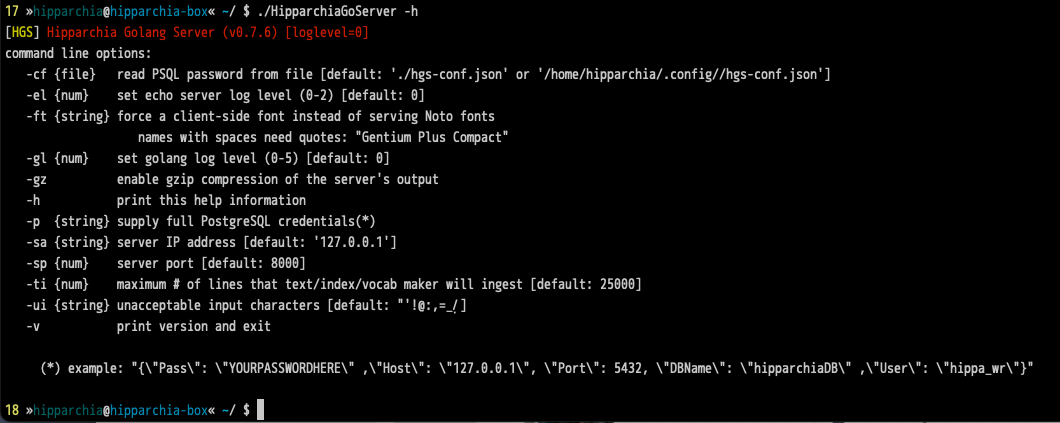
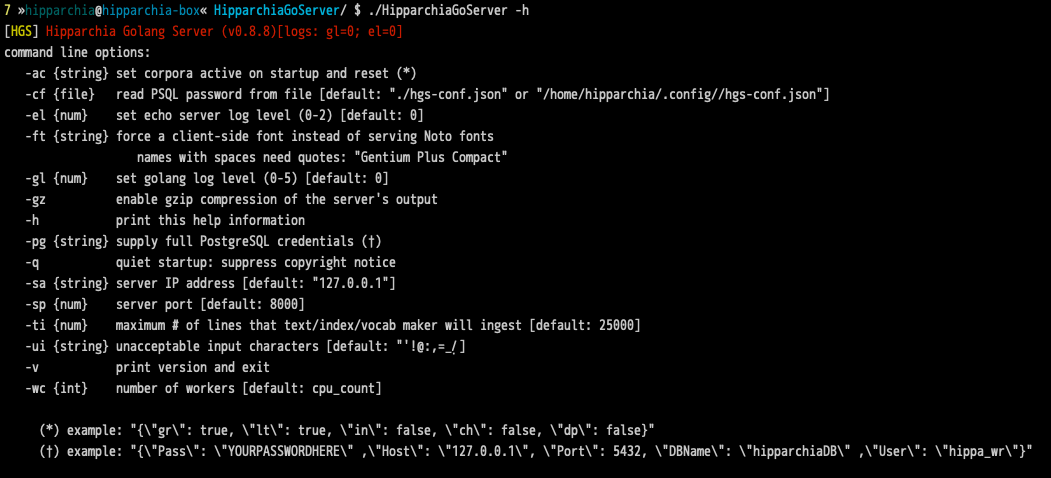
indexobserved clicks for index headwords

Changed region(s): [[0.0, 0.0, 1.0, 1.0]]

diff --git a/emb/frontpage.html b/emb/frontpage.html
@@ -14,7 +14,7 @@
 
 <!--
 
-HipparchiaGoServer: a container for and an interface to a database of Greek and Latin texts
+HipparchiaGoServer: an interface to a database of Greek and Latin texts
 Copyright: E Gunderson 2022
 License: GNU GENERAL PUBLIC LICENSE 3
     (see LICENSE in the top level directory of the distribution)

diff --git a/rt-textsindicesandvocab.go b/rt-textsindicesandvocab.go
@@ -829,7 +829,7 @@ func convertwordinfototablerow(ww []WordInfo) string {
 	// standard TR
 	tr := `
 	<tr>
-		<td class="headword">%s</td>
+		<td class="headword"><indexobserved id="%s">%s</indexobserved></td>
 		<td class="word"><indexobserved id="%s">%s</indexobserved></td>
 		<td class="count">%d</td>
 		<td class="passages">%s</td>
@@ -838,7 +838,7 @@ func convertwordinfototablerow(ww []WordInfo) string {
 	// homonymn TR
 	trh := `
 	<tr>
-		<td class="headword">%s</td>
+		<td class="headword"><indexobserved id="%s">%s</indexobserved></td>
 		<td class="word"><span class="homonym"><indexobserved id="%s">%s</indexobserved></span></td>
 		<td class="count">%d</td>
 		<td class="passages">%s</td>
@@ -877,7 +877,7 @@ func convertwordinfototablerow(ww []WordInfo) string {
 			templ = trh
 		}
 
-		t := fmt.Sprintf(templ, hw, wii[0].Wd, wii[0].Wd, len(wii), p)
+		t := fmt.Sprintf(templ, hw, hw, wii[0].Wd, wii[0].Wd, len(pp), p)
 		trr[i] = t
 		used[wii[0].HW] = true
 	}

diff --git a/rt-lexica.go b/rt-lexica.go
@@ -163,6 +163,10 @@ func RtLexFindByForm(c echo.Context) error {
 
 	word := purgechars(cfg.BadChars, elem[0])
 
+	// you can get sent here by the indexer which will have some headword stuff
+	clean := strings.NewReplacer("-", "", "¹", "", "²", "", "³", "")
+	word = clean.Replace(word)
+
 	word = swapacuteforgrave(word)
 
 	word = uvσςϲ(word)

diff --git a/theconstants.go b/theconstants.go
@@ -8,7 +8,7 @@ package main
 const (
 	MYNAME                  = "Hipparchia Golang Server"
 	SHORTNAME               = "HGS"
-	VERSION                 = "0.8.8"
+	VERSION                 = "0.8.9"
 	AUTHENTICATIONREQUIRED  = false // unused ATM
 	AVGWORDSPERLINE         = 8     // hard coding a suspect assumption
 	CONFIGLOCATION          = "."

diff --git a/main.go b/main.go
@@ -222,7 +222,7 @@ func configatlaunch() {
 }
 
 func printversion() {
-	ll := fmt.Sprintf("[logs: gl=%d; el=%d]", cfg.LogLevel, cfg.EchoLog)
+	ll := fmt.Sprintf(" [gl=%d; el=%d]", cfg.LogLevel, cfg.EchoLog)
 	versioninfo := fmt.Sprintf("%s (v%s)", MYNAME, VERSION)
 	versioninfo = versioninfo + ll
 	msg(versioninfo, 0)

diff --git a/README.md b/README.md
@@ -2,7 +2,7 @@
 
 ## beta status: (allegedly) solid core
 
-### status as of `v0.8.7`:
+### status as of `v0.8.8`:
 
 * monolithic binary: no need for extra files/folders beyond `hgs-conf.json`
 * searching theoretically fine but needs more testing/checking
@@ -19,6 +19,7 @@
 ### TODO (in vague order of priority)
 
 * room to improve lemma highlighting
+* morphology tables
 * reset route kills the websocket
 
 ### DISTANT FANTASIES
